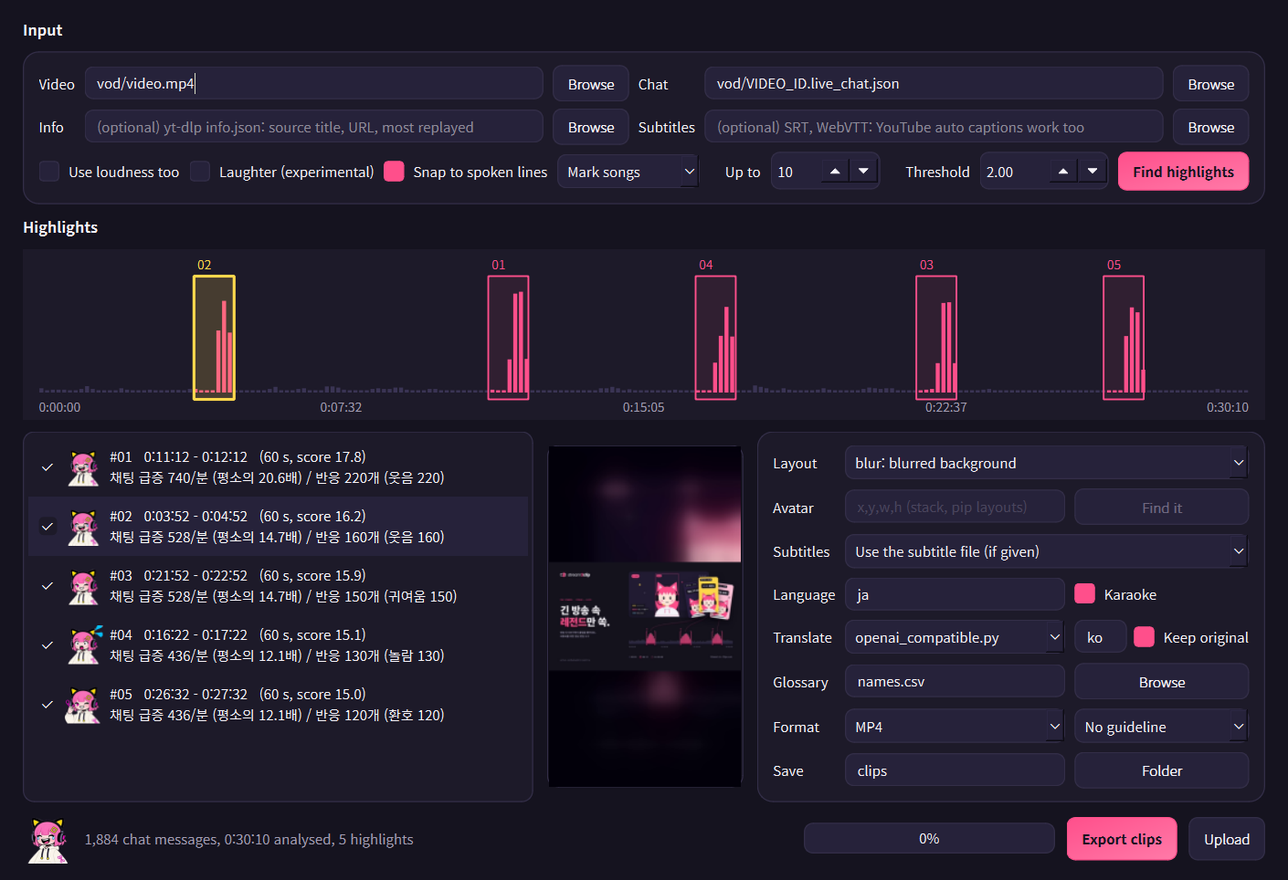
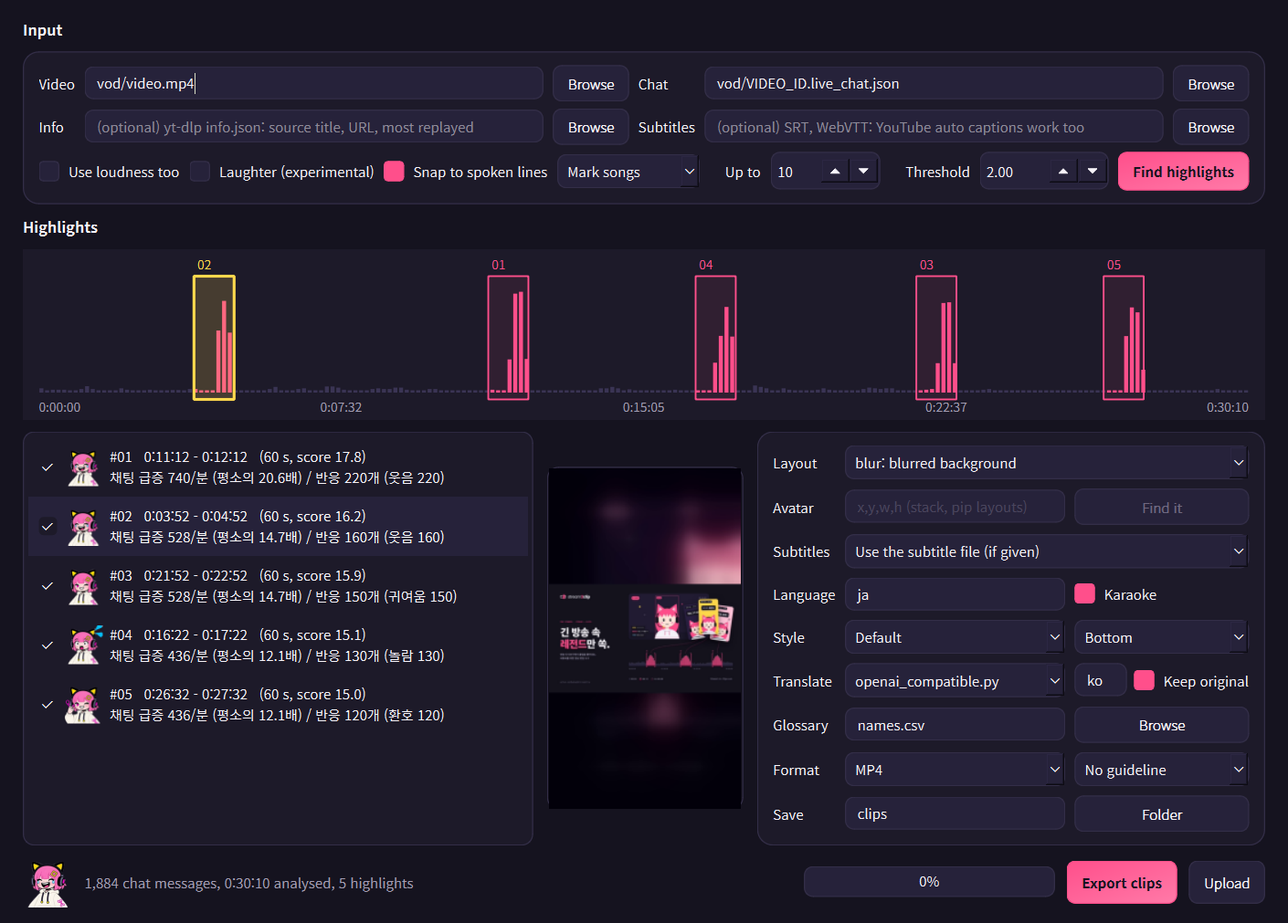
Release 0.7.0
Version numbers, changelog, README and docs for the caption options
and the VRM check, the site manual in three languages, the highlights
window screenshots, and the results of the run with a real Twitch chat
and OBS.

diff --git a/site/ja/guide.html b/site/ja/guide.html
@@ -50,7 +50,7 @@
 <div class="wrap dochead">
   <h1>stream2clip 取扱説明書</h1>
   <dl>
-    <dt>対象バージョン</dt><dd>v0.6</dd>
+    <dt>対象バージョン</dt><dd>v0.7</dd>
     <dt>対象</dt><dd>Windows用インストーラー、実行ファイルおよびPythonパッケージの利用者</dd>
     <dt>配布元</dt><dd>github.com/BudongJW/stream2clip</dd>
   </dl>
@@ -263,6 +263,7 @@
         <tbody>
           <tr><th scope="row">字幕ファイル</th><td>SRT、WebVTTに対応。YouTubeの自動字幕も使用可能</td></tr>
           <tr><th scope="row">カラオケ</th><td>発話中の単語に合わせて色を変更。単語ごとの時刻情報がある字幕に適用</td></tr>
+          <tr><th scope="row">スタイル</th><td>見た目4種(標準、ボックス、ピンク強調、小さめ)と位置3種(下、中央、上)を選択。フォントは字幕の言語に合わせて自動選択</td></tr>
           <tr><th scope="row">文の区切りに合わせる</th><td>字幕ファイルがある場合、区間の開始と終了を字幕行の境界へ移動。移動の上限は3秒。ハイライト検索の実行時に適用</td></tr>
           <tr><th scope="row">文字起こし</th><td>字幕がない場合に音声から字幕を作成(Whisper)。Pythonパッケージで提供</td></tr>
           <tr><th scope="row">翻訳</th><td>翻訳一覧の<strong>翻訳プログラムのファイルを選ぶ</strong>で <code>translators\openai_compatible.py</code> を選択すると、OpenAI互換のアドレス(ローカルのOllamaなど)で翻訳</td></tr>

diff --git a/site/guide.html b/site/guide.html
@@ -50,7 +50,7 @@
 <div class="wrap dochead">
   <h1>stream2clip 사용 설명서</h1>
   <dl>
-    <dt>적용 버전</dt><dd>v0.6</dd>
+    <dt>적용 버전</dt><dd>v0.7</dd>
     <dt>대상</dt><dd>Windows 설치 프로그램, 실행 파일 및 파이썬 패키지 사용자</dd>
     <dt>배포처</dt><dd>github.com/BudongJW/stream2clip</dd>
   </dl>
@@ -263,6 +263,7 @@
         <tbody>
           <tr><th scope="row">자막 파일</th><td>SRT, WebVTT 지원. YouTube 자동 자막 사용 가능</td></tr>
           <tr><th scope="row">카라오케</th><td>발화 단어에 맞춰 색상 변경. 단어별 시각 정보가 있는 자막에 적용</td></tr>
+          <tr><th scope="row">스타일</th><td>모양 4종(기본, 상자, 분홍 강조, 작게)과 위치 3종(아래쪽, 가운데, 위쪽) 선택. 폰트는 자막의 언어에 맞춰 자동 선택</td></tr>
           <tr><th scope="row">문장 경계 맞춤</th><td>자막 파일이 있는 경우 구간의 시작과 끝을 자막 줄의 경계로 이동. 이동 한도 3초. 하이라이트 찾기 실행 시 적용</td></tr>
           <tr><th scope="row">받아쓰기</th><td>자막이 없는 경우 음성에서 자막 생성(Whisper). 파이썬 패키지에서 제공</td></tr>
           <tr><th scope="row">번역</th><td>번역기 목록의 <strong>번역기 파일 고르기</strong>에서 <code>translators\openai_compatible.py</code> 선택 시 OpenAI 호환 주소(로컬 Ollama 등)로 번역</td></tr>

diff --git a/site/en/guide.html b/site/en/guide.html
@@ -50,7 +50,7 @@
 <div class="wrap dochead">
   <h1>stream2clip user manual</h1>
   <dl>
-    <dt>Version</dt><dd>v0.6</dd>
+    <dt>Version</dt><dd>v0.7</dd>
     <dt>Audience</dt><dd>Users of the Windows installer, the executables and the Python package</dd>
     <dt>Source</dt><dd>github.com/BudongJW/stream2clip</dd>
   </dl>
@@ -263,6 +263,7 @@
         <tbody>
           <tr><th scope="row">Subtitle file</th><td>SRT and WebVTT. YouTube automatic captions can be used</td></tr>
           <tr><th scope="row">Karaoke</th><td>Colour follows the spoken word. Applies to subtitles with word timing</td></tr>
+          <tr><th scope="row">Style</th><td>Four looks (Default, Box, Pink highlight, Small) and three places (Bottom, Middle, Top). The font follows the language of the captions</td></tr>
           <tr><th scope="row">Snap to spoken lines</th><td>With a subtitle file, the start and the end of each span move to the edge of a subtitle line. Limit 3 seconds. Applied when highlights are searched</td></tr>
           <tr><th scope="row">Transcription</th><td>Subtitles made from speech when there is no file (Whisper). Provided by the Python package</td></tr>
           <tr><th scope="row">Translation</th><td><strong>Choose a translator file</strong> in the translator list with <code>translators\openai_compatible.py</code> translates through an OpenAI compatible address such as a local Ollama</td></tr>

diff --git a/src/stream2clip/__init__.py b/src/stream2clip/__init__.py
@@ -23,7 +23,7 @@ from .export import FFmpegError, MediaInfo, export, probe
 from .ffmpeg import ALPHA_FORMATS, FORMATS, ExportOptions, build_export_command, build_video_filter
 from .geometry import Region
 
-__version__ = "0.6.0"
+__version__ = "0.7.0"
 
 __all__ = [
     "ALPHA_FORMATS",

diff --git a/README.md b/README.md
@@ -11,7 +11,7 @@
 방송 화면과 다시보기에서 장면을 캡쳐, 녹화하고 하이라이트 구간을 세로형 클립으로 제작하는 영상 편집 도구
 
 <!-- 프로젝트 -->
-<a href="#로드맵"><img alt="version" src="https://img.shields.io/badge/version-0.6.0-FF4F8B?style=for-the-badge&labelColor=15131F"></a>
+<a href="#로드맵"><img alt="version" src="https://img.shields.io/badge/version-0.7.0-FF4F8B?style=for-the-badge&labelColor=15131F"></a>
 <a href="LICENSE"><img alt="license" src="https://img.shields.io/badge/license-Apache--2.0-F7F4FA?style=for-the-badge&labelColor=15131F"></a>
 <a href="https://github.com/BudongJW/stream2clip/actions/workflows/ci.yml"><img alt="CI" src="https://img.shields.io/github/actions/workflow/status/BudongJW/stream2clip/ci.yml?branch=main&style=for-the-badge&label=CI&logo=githubactions&logoColor=white&labelColor=15131F"></a>
 <a href="#알려진-제약"><img alt="platform" src="https://img.shields.io/badge/platform-Windows%20%7C%20macOS%20%7C%20Linux-FFD84D?style=for-the-badge&labelColor=15131F"></a>
@@ -27,7 +27,7 @@
 <a href="#기술-스펙"><img alt="faster-whisper" src="https://img.shields.io/badge/faster--whisper-subtitles-412991?style=flat-square"></a>
 <a href="#기술-스펙"><img alt="libass" src="https://img.shields.io/badge/libass-karaoke%20ASS-6E6880?style=flat-square"></a>
 <a href="#개발"><img alt="pytest" src="https://img.shields.io/badge/tested%20with-pytest-0A9EDC?style=flat-square&logo=pytest&logoColor=white"></a>
-<a href="#개발"><img alt="tests" src="https://img.shields.io/badge/tests-396-4ADE80?style=flat-square"></a>
+<a href="#개발"><img alt="tests" src="https://img.shields.io/badge/tests-416-4ADE80?style=flat-square"></a>
 
 <!-- 기능 -->
 <a href="#출력-포맷"><img alt="output" src="https://img.shields.io/badge/output-GIF%2C%20WebP%2C%20MP4%2C%20WebM%2C%20MOV%2C%20APNG-FF4F8B?style=flat-square&labelColor=15131F"></a>
@@ -69,6 +69,7 @@
 
 | &numsp;버&NoBreak;전&numsp; | 주요 변경 |
 |:---:|---|
+| v0.7 | 자막 개선(언어별 폰트 자동 선택, 문절 단위 줄바꿈, 스타일 프리셋과 위치), VRM 아바타 권리 검사 |
 | v0.6 | 문장 경계 맞춤, 스트리머 표시 구간(`!clip` 등), pip 레이아웃과 별도 아바타 영상 합성, Twitch 라이브 채팅 |
 | v0.5 | 라이브 모드(방송 중 채팅 급증 시 OBS 리플레이 자동 저장), 하이라이트 창의 방송 주소 입력, 언어 선택이 있는 Windows 설치 프로그램, 홈페이지 및 사용 설명서(한국어, 영어, 일본어) |
 | v0.4 | 방송 주소만으로 클립 제작(하이라이트 구간만 다운로드), 화면 언어 3종, 앱의 번역, 업로드, OBS 리플레이(F10), 파일 하나로 번역기 연결, 여러 방송 평가(`evaluate`) |
@@ -104,8 +105,8 @@
 |:---:|---|
 | 하이라이트 자동 검출 | 채팅 급증, 고유 채터, 반응 어휘(草, ｗｗ, ㅋㅋ, KEKW, 888), 슈퍼챗, 음량, 많이 다시 본 구간을 방송별 기준선과 비교하여 점수화. 채팅 지연 보정, 인접 구간 병합, 검출 근거 제공. 스트리머가 채팅에 남긴 표시 명령(`!clip` 등)의 시점은 항상 포함 |
 | 9:16 세로 클립 | 레이아웃 5종: center, fit, blur(블러 배경), stack(아바타 위, 게임 아래), pip(게임 화면 구석에 아바타). `--avatar auto`로 아바타 위치 자동 검출, 별도 아바타 영상(그린스크린, 알파) 합성 |
-| 카라오케 자막 | 단어 단위로 강조되는 자막. SRT, YouTube 자동 자막 VTT, Whisper 지원. 번역기 연결 시 번역 자막 및 원문 병기. 말이 끊기지 않도록 클립의 시작과 끝을 자막 줄의 경계로 이동 |
-| 가이드라인 점검 | hololive, にじさんじ, ぶいすぽっ!, あおぎり高校 프로필 제공. 원본 URL과 제목을 최상단에 둔 설명란 생성, 멤버십, 아카이브 공개, 채널 등록, AI 표기 사전 점검 |
+| 카라오케 자막 | 단어 단위로 강조되는 자막. SRT, YouTube 자동 자막 VTT, Whisper 지원. 번역기 연결 시 번역 자막 및 원문 병기. 말이 끊기지 않도록 클립의 시작과 끝을 자막 줄의 경계로 이동. 언어별 폰트 자동 선택, 문절 단위 줄바꿈, 스타일 4종과 위치 선택 |
+| 가이드라인 점검 | hololive, にじさんじ, ぶいすぽっ!, あおぎり高校 프로필 제공. 원본 URL과 제목을 최상단에 둔 설명란 생성, 멤버십, 아카이브 공개, 채널 등록, AI 표기 사전 점검. VRM 아바타 파일의 사용 조건(영리 사용, 크레딧 표기) 검사 |
 | 라이브 모드 | 방송 중 채팅 급증 시 OBS 리플레이 버퍼를 저장하여 해당 장면을 클립으로 자동 저장. YouTube, Twitch 채팅 직접 수신 |
 | YouTube 업로드 | 제작한 클립과 설명란을 YouTube에 업로드. 공개 범위 기본값은 비공개 |
 
@@ -276,6 +277,31 @@ stream2clip clips vod/video.mp4 --highlights highlights.json --layout pip --avat
 | 라이브 모드 | 표시 명령 입력 시 준비 시간과 임계값에 관계없이 즉시 저장 |
 
 - 표시 명령은 입력자와 관계없이 채팅 급증 계산에서 제외
+
+### 자막 모양
+
+| &numsp;&numsp;&numsp;항&NoBreak;목&numsp;&numsp;&numsp; | 내용 |
+|:---:|---|
+| 폰트 | 자막의 언어에 맞는 설치된 폰트를 자동 선택. 일본어는 Noto Sans JP, Yu Gothic, Meiryo 순, 한국어는 Noto Sans KR, Malgun Gothic 순. `--font FAMILY`로 직접 지정 |
+| 원문 병기 | 원문 줄과 번역 줄에 각 언어의 폰트 적용. 일본어 한자가 한국어 자형으로 표시되지 않음 |
+| 줄바꿈 | 전각 18자 기준으로 최대 3줄. 일본어는 문절 경계(조사 뒤, 문장 부호 뒤)에서, 한국어와 영어는 띄어쓰기에서 나눔. 영문자는 전각의 약 절반 폭으로 계산 |
+| 긴 자막 | 3줄로도 화면 폭을 넘는 경우 해당 자막만 축소 표시(최소 55%) |
+
+| &numsp;&numsp;&numsp;&numsp;&numsp;&numsp;옵&NoBreak;션&numsp;&numsp;&numsp;&numsp;&numsp;&numsp; | 값 | 동작 |
+|:---:|---|---|
+| `--subtitle-style` | `default` | 흰 글자, 노란 강조, 어두운 외곽선 |
+| | `box` | 반투명 어두운 상자 위에 표시. 복잡한 게임 화면용 |
+| | `pink` | 강조 색을 라이브 핑크로 변경 |
+| | `small` | 작은 크기, 얇은 외곽선, 보통 굵기 |
+| `--subtitle-position` | `bottom`, `middle`, `top` | 자막 위치. 기본값 `bottom`. 게임 자체의 대사 창이 아래에 있는 경우 `top` 사용 |
+| `--font-size` | 픽셀 | 폭 1080px 화면 기준 글자 크기. 기본값 64 |
+
+```bash
+stream2clip clips vod/video.mp4 --highlights highlights.json --subtitles vod/VIDEO_ID.ja.vtt --subtitle-style box --subtitle-position top -o clips
+```
+
+- 앱: 하이라이트 창의 **스타일** 줄에서 모양과 위치 선택
+- 라이브러리: `subtitle_style("box", position="top")` 또는 `SubtitleStyle(...)`을 `make_clips(subtitle_style=...)`에 전달
 
 ### 자막 번역
 
@@ -465,6 +491,27 @@ stream2clip auto vod/video.mp4 --chat vod/chzzk_VIDEO_NO.chat.jsonl --info vod/i
 | `aogiri` | 2026-02 개정 |
 | `generic` | 기획사 프로필이 없는 경우의 공통 점검 |
 
+### VRM 아바타 권리 검사
+
+VRM 모델 파일에 기록된 사용 조건을 읽어 계획한 사용과 대조
+
+```bash
+stream2clip check --vrm model.vrm --monetized
+```
+
+| &numsp;&numsp;&numsp;&numsp;항&NoBreak;목&numsp;&numsp;&numsp;&numsp; | 내용 |
+|:---:|---|
+| 표시 내용 | 모델명과 제작자, 아바타 사용 허용 범위, 영리 사용 범위, 크레딧 표기 여부, 개변과 재배포, 폭력 및 성적 표현 허용 여부, 라이선스 주소 |
+| 지원 형식 | VRM 1.0(`VRMC_vrm`), VRM 0.x(`VRM`). 0.x의 라이선스 이름(`CC_BY_NC` 등)은 1.0의 항목으로 환산 |
+| `--monetized` | 수익이 발생하는 채널에서의 사용. 비영리 전용 모델이면 오류 |
+| `--corporation` | 법인이 운영하는 채널에서의 사용. 개인 사용만 허용된 모델이면 오류 |
+| 경고 | 제작자 본인 전용, 별도 허락 필요, 크레딧 표기 필요, 조건 미기재 |
+| 종료 코드 | 오류가 있으면 1 |
+
+- 기획사 프로필과 함께 사용 가능: `check --vrm model.vrm --info vod/info.json --agency hololive`
+- 파일의 JSON 부분만 읽으며 3D 라이브러리 불필요
+- 파일의 메타는 모델 제작자가 입력한 값. 판매 페이지에 별도 약관이 있을 수 있으므로 함께 확인 필요
+
 > [!CAUTION]
 > 기획사 프로필은 [레퍼런스 조사](reports/버튜버%20영상%20작업%20프로젝트%20레퍼런스.md) 시점의 점검 목록이며 법적 판단이 아님. 가이드라인은 개정될 수 있고 탤런트별 추가 규칙이 있으므로 업로드 전 원문 확인 필요. 한국 기획사(스텔라이브, 이세계아이돌 등)는 공식 원문 미확보로 프로필을 제공하지 않으며 `generic` 사용
 
@@ -502,7 +549,7 @@ stream2clip auto vod/video.mp4 --chat vod/chzzk_VIDEO_NO.chat.jsonl --info vod/i
 | 전역 단축키 | Win32 `RegisterHotKey`, **pynput** | - | - | Windows는 추가 설치 불필요, 그 외 `[hotkey]` |
 | 아바타 검출 | **onnxruntime**, deepghs/anime_face_detection | 1.16 이상 | 1.32 | 선택 설치 `[detect]`. 모델 12MB는 최초 사용 시 다운로드 |
 | OCR | **Tesseract**, pytesseract | 0.3 이상 | - | 선택 설치 `[ocr]`. 번역 플러그인과 함께 사용 |
-| 테스트 | **pytest**, Xvfb | 8 이상 | 9.2 | 396개. 실제 마우스 이벤트, F8 및 F9, VOD 클립 전체 절차, Windows 전역 단축키와 배율 |
+| 테스트 | **pytest**, Xvfb | 8 이상 | 9.2 | 416개. 실제 마우스 이벤트, F8 및 F9, VOD 클립 전체 절차, Windows 전역 단축키와 배율 |
 | CI | **GitHub Actions** | - | - | Ubuntu(Xvfb, GUI 포함), Windows. 패키징 변경 시 Windows 실행 파일과 설치 프로그램을 빌드하여 실행 |
 | 패키징 | setuptools, **PyInstaller**, Inno Setup | 77 이상, 6.10 이상, 6 | 6.22(PyInstaller) | `stream2clip`, `stream2clip-gui` 실행 파일, entry point 플러그인, Windows용 zip 및 설치 프로그램 |
 | 데이터 포맷 | **JSON Schema** 2020-12 | - | - | [`annotation.v1.schema.json`](src/stream2clip/schemas/annotation.v1.schema.json) |
@@ -576,8 +623,8 @@ python packaging/build_windows.py
 |---|---|
 | `dist/stream2clip/stream2clip-gui.exe` | 데스크톱 앱. 콘솔 창 없음 |
 | `dist/stream2clip/stream2clip.exe` | 명령줄 도구. `fetch`, `auto`, `avatar` 등 전체 명령 |
-| `dist/stream2clip-0.6.0-windows-x64.zip` | 위 폴더를 묶은 배포용 zip |
-| `dist/stream2clip-0.6.0-windows-x64-setup.exe` | 설치 프로그램(`--installer`, Inno Setup 6 필요). 첫 화면에서 언어(한국어, 일본어, 영어) 선택, 선택한 언어로 앱 시작 |
+| `dist/stream2clip-0.7.0-windows-x64.zip` | 위 폴더를 묶은 배포용 zip |
+| `dist/stream2clip-0.7.0-windows-x64-setup.exe` | 설치 프로그램(`--installer`, Inno Setup 6 필요). 첫 화면에서 언어(한국어, 일본어, 영어) 선택, 선택한 언어로 앱 시작 |
 
 | &numsp;&numsp;&numsp;&numsp;&numsp;&numsp;&numsp;&numsp;&numsp;옵&NoBreak;션&numsp;&numsp;&numsp;&numsp;&numsp;&numsp;&numsp;&numsp;&numsp; | 동작 |
 |:---:|---|
@@ -628,6 +675,7 @@ stream2clip gui
 | 목록의 체크 | 내보낼 구간 선택 |
 | 레이아웃 **stack**, **pip**, **자동 찾기** | 얼굴 검출로 아바타 박스 입력 |
 | **문장 경계 맞춤** | 자막 파일이 있는 경우 구간의 시작과 끝을 자막 줄의 경계로 이동(최대 3초) |
+| **스타일** | 자막 모양(기본, 상자, 분홍 강조, 작게)과 위치(아래쪽, 가운데, 위쪽) 선택 |
 | **웃음소리 (실험)**, **노래 구간** | 웃음소리 유형의 소리에 점수 가산, 노래와 겹치는 하이라이트 표시 또는 제외 |
 | **번역**, **용어집**, **원문 병기** | 자막 번역기(플러그인 또는 `.py` 파일) 선택, 이름 고정, 원문과 2줄 표시 |
 | **업로드** | 선택한 클립을 YouTube 업로드 창으로 전달. 기본값 비공개 |
@@ -660,7 +708,7 @@ stream2clip gui
 | `avatar` | stack 레이아웃용 아바타 박스 제안 |
 | `singing` | 오디오로 노래 구간 검출 |
 | `glossary` | 자막 번역용 이름 용어집 초안 생성 및 점검 |
-| `check` | 기획사 가이드라인 기준 업로드 전 점검 |
+| `check` | 기획사 가이드라인 기준 업로드 전 점검, VRM 아바타의 사용 조건 검사 |
 | `evaluate` | 시청자 댓글 타임스탬프 기준 검출 성능 평가 |
 | `replay` | OBS 리플레이 버퍼 저장 및 클립 변환 |
 | `live` | 라이브 채팅 감시, 급증 시 OBS 리플레이를 클립으로 저장 |
@@ -835,8 +883,9 @@ src/stream2clip/
 ├── live.py        라이브 모드: 실시간 급증 검출, 채팅 따라 읽기 (파일, yt-dlp, Twitch), 리플레이 클립 변환
 ├── layouts.py     9:16 레이아웃 (center, fit, blur, stack, pip), 별도 아바타 영상 합성
 ├── detect.py      애니메 얼굴 검출, stack 레이아웃 아바타 박스 제안
-├── subtitles.py   SRT/VTT/JSON을 카라오케 ASS로 변환, faster-whisper 연결
+├── subtitles.py   SRT/VTT/JSON을 카라오케 ASS로 변환, 언어별 폰트, 줄바꿈, 스타일 프리셋, faster-whisper 연결
 ├── compliance.py  기획사 가이드라인 프로필, 설명란, 업로드 전 점검
+├── vrm.py         VRM 모델의 사용 조건 판독, 사용 계획 대조
 ├── pipeline.py    하이라이트에서 완성 클립 일괄 생성
 ├── capture/       캡처 백엔드 (mss, numpy 배열, 플러그인) + 커서 합성
 ├── editor/        주석 모델, 렌더러, 되돌리기, JSON 직렬화
@@ -932,7 +981,7 @@ src/stream2clip/
 ### 완료
 
 <details>
-<summary><b>버전별 완료 항목 29건</b></summary>
+<summary><b>버전별 완료 항목 32건</b></summary>
 
 <br>
 
@@ -967,6 +1016,9 @@ src/stream2clip/
 | v0.6 | 스트리머 표시 구간: 스트리머, 모더레이터의 `!clip` 등 명령 시점을 항상 클립으로 포함 |
 | v0.6 | pip 레이아웃, 별도 아바타 영상(그린스크린, 알파) 합성 |
 | v0.6 | Twitch 라이브 채팅으로 라이브 모드 사용 |
+| v0.7 | 자막 폰트의 언어별 자동 선택, 문절 단위 줄바꿈, 긴 자막의 자동 축소 |
+| v0.7 | 자막 스타일 프리셋(`default`, `box`, `pink`, `small`)과 위치 선택 |
+| v0.7 | VRM 아바타 권리 검사(`check --vrm`) |
 
 </details>
 
@@ -1009,7 +1061,7 @@ src/stream2clip/
 | 녹화 커서 | 화살표 모양 1종만 합성하며 화면 배율에 따라 크기만 조정. 실제 커서 모양(손가락, I빔 등)은 미반영 |
 | GIF 투명도 | 1비트. 부드러운 가장자리가 필요한 경우 WebP, WebM, MOV 사용 |
 | 화면 언어 | 하이라이트 근거, 가이드라인 점검 문구, 설명란 양식, 명령줄 출력은 한국어만 제공. 일본어, 영어 번역은 원어민 검수 미실시 |
-| 라이브 모드 | 채팅 직접 수신은 YouTube, Twitch 지원. 기본 임계값에서의 클립 절단 위치와 실제 장면의 일치 여부는 종료된 방송의 채팅으로만 측정. Twitch 채팅과 OBS를 함께 사용한 저장은 미검증 |
+| 라이브 모드 | 채팅 직접 수신은 YouTube, Twitch 지원. 기본 임계값에서의 클립 절단 위치와 실제 장면의 일치 여부는 종료된 방송의 채팅으로만 측정 |
 | YouTube 업로드 | 실제 업로드 미검증. 요청 본문과 진행 처리는 가짜 API로 테스트 |
 | Windows 실행 파일 | 코드 서명 미적용. Smart App Control 사용 환경에서 실행이 차단될 수 있음 |
 

diff --git a/docs/ARCHITECTURE.md b/docs/ARCHITECTURE.md
@@ -92,17 +92,20 @@ fetch (yt-dlp) ─► info.json, <id>.live_chat.json, <id>.ja.vtt, video.mp4
 | 레이아웃 | `layouts.py` | 필터그래프 조각을 만드는 순수 함수. `stack`, `pip`는 아바타를 방송 화면의 영역에서 잘라 쓰거나 별도 아바타 영상(`avatar_source`)에서 가져옴. 별도 영상은 두 번째 입력(`[1:v]`)으로 받아 색을 제거한 후 합성하며, `ffmpeg.avatar_input_args`가 방송 영상과 같은 구간으로 맞춤 |
 | 문장 경계, 표시 구간 | `highlights.py` | `snap_to_cues`가 구간의 시작과 끝을 자막 줄의 경계로 이동. `marker_times`가 스트리머, 모더레이터의 표시 명령 시각을 찾고 `detect_highlights`가 해당 시점을 항상 구간으로 포함 |
 | YouTube 업로드 | `upload.py` | 요청 본문을 만드는 순수 함수(`video_resource`)와 실제 전송(`upload_video`)을 분리. 공개 범위 기본값은 비공개 |
+| VRM 권리 검사 | `vrm.py` | GLB의 JSON 청크만 읽어 `VRMC_vrm.meta`(1.0) 또는 `VRM.meta`(0.x)를 1.0의 용어로 통일한 `VrmMeta`로 변환. `check_vrm`이 수익화, 법인 사용 여부와 대조하여 `compliance.Issue` 목록 반환. 표준 라이브러리만 사용 |
 | CHZZK, SOOP | `sources.py`, `chat.py` | 채팅을 yt-dlp 대신 각 플랫폼의 다시보기 API에서 수신(`fetch_chzzk_chat`, `fetch_soop_chat`, 표준 라이브러리 `urllib`). 응답 해석은 순수 함수 `parse_chzzk`, `parse_soop`. 저장 형식은 작성자를 해시한 정규화 JSONL 1종. 네트워크 함수는 `get`을 교체할 수 있어 테스트가 실제 요청을 보내지 않음 |
 | 채팅 정리 | `chat.py`, `highlights.py` | `load_chat`은 YouTube 다시보기에서 0초로 기록된 대기실 채팅을 보낸 시각(`timestampUsec` − 오프셋 = 방송 시작 시각)으로 판별하여 제외. `highlights`는 인사, 작별(`ROUTINE`)을 채팅 신호에서 제외. 둘 다 실제 아카이브에서 방송 시작과 종료 시점에 가짜 봉우리를 만들던 요인. `ChatMessage.role`은 스트리머(`owner`)와 모더레이터(`moderator`)를 구분하며 표시 명령 판정에만 사용 |
 
 필터 및 자막 처리:
 
-| &numsp;&numsp;&numsp;항&NoBreak;목&numsp;&numsp;&numsp; | 내용 |
+| &numsp;&numsp;&numsp;&numsp;항&NoBreak;목&numsp;&numsp;&numsp;&numsp; | 내용 |
 |:---:|---|
 | 필터 순서 | `crop, fps, [layout 그래프], scale, subtitles, extra, colorkey, 포맷별 처리`. 레이아웃은 `[pre], [lay]` 레이블을 사용하는 서브그래프이므로 GIF 팔레트 등 이후 단계와 그대로 연결 |
 | 자막 시간 | `-ss`를 입력 옵션으로 사용하므로 필터 기준 시간은 0부터 시작. 자막은 `slice_cues`로 클립 기준 시간으로 이동(자막의 표시 시간을 테스트로 확인) |
 | 자막 경로 | `filter_path()`가 ffmpeg의 2단계 이스케이프(옵션, 필터그래프) 처리. Windows `C:\` 경로와 `' [] , ; :`가 포함된 경로도 테스트 |
 | 자막 크기 | 스타일 값은 짧은 변 1080px 기준이며 출력 크기에 비례하여 조정. 세로 화면에서는 쇼츠 하단 UI를 피하여 아래에서 약 20% 위에 배치 |
+| 자막 폰트 | `SubtitleStyle.font`의 기본값 `auto`는 자막의 문자 구성(`script_of`)에 맞는 후보 중 설치된 첫 폰트를 선택(`pick_font`). 설치 목록은 Windows 레지스트리, 그 외는 `fc-list`로 조회하며 조회 불가 시 후보의 첫 항목 사용. 원문 병기 자막은 줄별로 `\fn` 지정 |
+| 자막 줄바꿈 | 표시 폭(전각 1, 그 외 0.55) 기준으로 `max_chars` 이내의 줄을 최대 `max_lines`개로 균등 분할. 일본어는 `_phrases`가 문절 경계 후보를 계산(히라가나 다음의 한자, 가타카나, 영문자 앞과 문장 부호 뒤). 그래도 넘치면 해당 자막에 `\fscx`, `\fscy`로 축소 지정 |
 
 ### 하이라이트 창 (`gui/highlights.py`)
 

diff --git a/docs/VERIFICATION.md b/docs/VERIFICATION.md
@@ -59,7 +59,9 @@ CHZZK 구간 다운로드 실패의 원인은 ffmpeg 7.1 이후의 HLS 확장자
 - 런처: 동일 환경에서 시작, 클립 저장, 중지 확인(임계값 하향 설정)
 - 기본 설정 관찰: 실제 방송 1개를 30분 관찰하여 6회 발동. 이 결과에 따라 구간당 최소 메시지 수를 8로 조정([DETECTION.md](DETECTION.md#실제-방송-관찰에-따른-조정))
 - Twitch 채팅: 실제 방송 중인 채널에 익명으로 접속하여 4분간 수신(메시지 2,381개, 임계값을 2로 낮춘 설정에서 1회 발동). 메시지 시각과 PC 시계의 차이는 약 1초. OBS는 사용하지 않고 급증 판정까지 확인
-- 미검증: 기본 임계값에서의 클립 절단 위치와 실제 장면의 일치 여부(종료된 방송의 채팅으로만 측정). Twitch 채팅과 OBS를 함께 사용한 저장. CHZZK, SOOP 라이브 채팅 직접 수신은 미구현
+- Twitch 채팅과 OBS: 실제 방송 중인 Twitch 채널의 채팅과 실제 OBS Studio 33.0.1로 확인. 임계값을 1로 낮춘 설정에서 급증 2회에 35초 클립 2개를 54초, 56초 리플레이에서 잘라 저장(4분 2초 소요, 메시지 268개)
+- 표시 명령과 OBS: 채팅 파일에 스트리머 역할의 `!clip`을 기록하여 기본 임계값, 준비 시간 이전 상태에서 35초 클립 1개 저장 확인. 시청자의 `!clip`은 발동하지 않음
+- 미검증: 기본 임계값에서의 클립 절단 위치와 실제 장면의 일치 여부(종료된 방송의 채팅으로만 측정). CHZZK, SOOP 라이브 채팅 직접 수신은 미구현
 
 ## 클립 제작 부가 기능
 
@@ -69,6 +71,14 @@ CHZZK 구간 다운로드 실패의 원인은 ffmpeg 7.1 이후의 HLS 확장자
 | 스트리머 표시 구간 | 역할 판독은 실제 YouTube 채팅 7개 방송(`MODERATOR` 11건, `OWNER` 1건), 실제 CHZZK 다시보기 1개(스트리머 2건, 채팅 관리자 216건)로 확인 | 실제 방송에서 사용된 표시 명령. 구간 포함과 순위는 합성 채팅으로만 검증 |
 | pip 레이아웃 | 실제 방송 녹화본(1080p)에서 `--layout pip --avatar auto`로 클립 제작. 아바타 영역 검출(12장 중 12장), 1080×1920 클립 24.6초 제작에 18초 소요 | 없음 |
 | 별도 아바타 영상 | 합성 영상(단색 배경의 게임 화면, 그린스크린 아바타)으로 색 제거와 합성 위치를 픽셀 단위로 확인 | 실제 아바타 그린스크린 또는 알파 녹화본 |
+
+## 자막 및 VRM
+
+| &numsp;&numsp;&numsp;&numsp;&numsp;&numsp;&numsp;기&NoBreak;능&numsp;&numsp;&numsp;&numsp;&numsp;&numsp;&numsp; | 검증 내용 | 미검증 |
+|:---:|---|---|
+| 자막 폰트 | Windows 11에서 설치 폰트 539개 조회. 일본어 자막에 Yu Gothic, 한국어 자막에 Noto Sans KR 선택(이 PC에는 Noto Sans JP 미설치). 원문 병기 자막의 줄별 폰트 적용을 렌더링 결과로 확인 | macOS, Linux의 폰트 조회(`fc-list`)는 가짜 출력으로만 테스트 |
+| 자막 줄바꿈, 스타일 | 스타일 4종과 위치 3종을 키 비주얼 영상에 렌더링하여 확인. 113자 일본어 자막이 3줄로 나뉘고 축소 표시됨 | 일본어 문절 분할은 규칙 기반이며 실제 방송 자막 전체에 대한 품질 측정은 미실시 |
+| VRM 권리 검사 | 메타 항목 이름을 VRM 공식 스키마(1.0, 0.x) 원문과 대조. 합성한 GLB 파일로 판독 테스트 | 실제 VRM 모델 파일 |
 
 ## YouTube 업로드
 

diff --git a/CHANGELOG.md b/CHANGELOG.md
@@ -1,5 +1,27 @@
 # 변경 내역
 
+## v0.7.0: 2026-11-19
+
+### 자막
+- 폰트의 언어별 자동 선택: 자막의 문자 구성에 맞는 후보 중 설치된 첫 폰트 사용(일본어는 Noto Sans JP, Yu Gothic, Meiryo 순, 한국어는 Noto Sans KR, Malgun Gothic 순). 이전에는 Noto Sans KR 고정이어서 일본어 한자가 한국어 자형으로 표시됨. `--font`로 직접 지정 가능
+- 원문 병기 자막은 원문 줄과 번역 줄에 각 언어의 폰트 적용
+- 줄바꿈 개선: 표시 폭 기준(전각 1, 영문자 약 0.55)으로 최대 3줄까지 균등 분할. 일본어는 문절 경계에서 분할. 이전에는 글자 수 기준 2줄 고정이어서 일본어가 단어 중간에서 나뉘고 긴 자막은 화면 밖으로 넘침
+- 3줄로도 넘치는 자막은 해당 자막만 축소 표시
+- 스타일 프리셋 4종(`default`, `box`, `pink`, `small`)과 위치 3종(`bottom`, `middle`, `top`): `--subtitle-style`, `--subtitle-position`, `--font-size`, 하이라이트 창의 **스타일** 줄
+- 코어: `subtitles.subtitle_style`, `SUBTITLE_STYLES`, `pick_font`, `script_of`, `installed_fonts`, `SubtitleStyle(font="auto", max_lines=3, box=False)`
+
+### 권리 검사
+- VRM 아바타 권리 검사: `stream2clip check --vrm model.vrm [--monetized] [--corporation]`. 파일에 기록된 사용 조건(아바타 사용 범위, 영리 사용, 크레딧 표기, 개변과 재배포)을 표시하고 계획한 사용과 대조. VRM 1.0과 0.x 지원
+- 코어: `vrm.read_vrm_meta`, `check_vrm`
+
+### 확인 내용
+- 자막: 스타일 4종과 위치 3종, 113자 일본어 자막, 원문 병기 자막을 키 비주얼 영상에 렌더링하여 확인
+- VRM: 메타 항목 이름을 공식 스키마(1.0, 0.x) 원문과 대조. 실제 VRM 모델 파일은 미검증
+- 라이브 모드: 실제 Twitch 채팅과 실제 OBS Studio 33.0.1로 클립 저장 확인(급증 2회에 35초 클립 2개). 스트리머의 `!clip` 표시로 급증 없이 클립 1개 저장 확인
+
+### 변경 사항
+- 라이브 모드 출력: 표시 명령으로 저장한 경우 `surge 0.0` 대신 `marker`로 표기
+
 ## v0.6.0: 2026-11-19
 
 ### 클립 제작

diff --git a/docs/TESTING.md b/docs/TESTING.md
@@ -45,6 +45,8 @@
 | `test_clips.py` | 레이아웃 4종 렌더링, 필터 경로 이스케이프, SRT, VTT, ASS, 자막의 표시 시간, 가이드라인 점검, 클립 파이프라인 |
 | `test_detect.py` | 얼굴 검출 전처리(letterbox), 후처리(YOLO 출력 해석, NMS), 동일 위치에 유지되는 얼굴 선택, 박스 형태, 모델 체크섬, `avatar`, `--avatar auto` |
 | `test_cli.py` | CLI 명령(`auto` 전체 절차, `check` 포함) |
+| `test_subtitle_style.py` | 자막: 문자 구성 판별, 설치된 폰트에 따른 선택(목록 조회 실패 포함), 원문 병기 줄별 폰트, 표시 폭 계산, 일본어 문절 분할, 균등 줄바꿈, 긴 자막 축소, 스타일 프리셋과 위치(ASS 스타일 값, 실제 렌더링의 자막 위치), `clips`의 자막 옵션 |
+| `test_vrm.py` | VRM 1.0, 0.x 메타 판독(합성한 GLB 파일), 0.x 라이선스 이름의 환산, VRM이 아닌 파일 거부, 수익화 및 법인 사용 대조, `check --vrm` |
 | `test_translation.py` | 용어집(긴 이름 우선), 번역 후 시간 유지, 이름 고정, 원문 병기 자막, 묶음 전송, Holodex 초안, `--translate` |
 | `test_translator_loading.py` | 번역기를 파일, 모듈에서 불러오기(함수, 클래스, 객체, Windows 드라이브 경로), 잘못된 지정에 대한 안내, 예제 번역기(가짜 응답: 목록 추출, 줄 수 불일치 시 1줄씩 재요청), `--translator file.py` |
 | `test_audio_signals.py` | 웃음소리 신호(크고 끊어지는 소리), 가산 신호가 다른 하이라이트를 줄이지 않는지 여부, 노래 구간 검출(합성 음성, 노래), 노래 표시 및 제외 |
